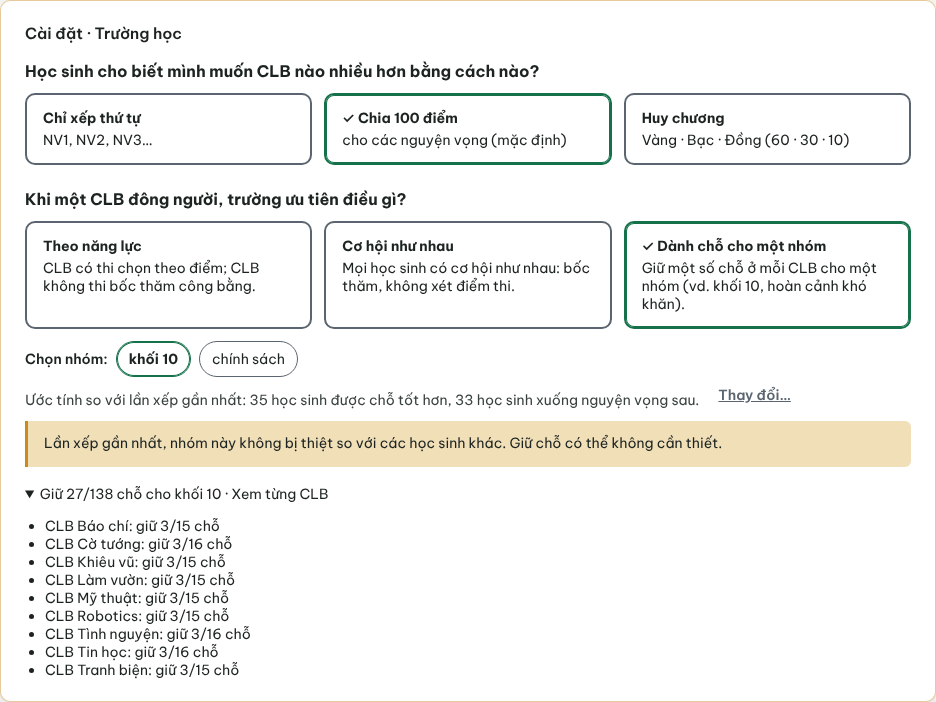
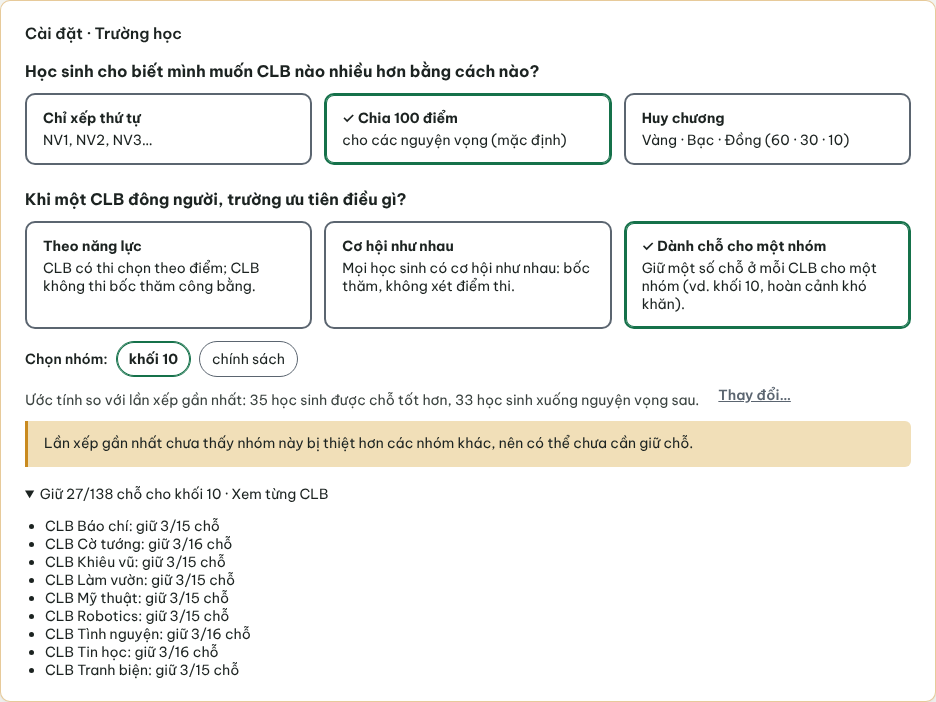
MT1-L4 fix1b: câu cảnh báo không có khoảng cách theo lời lead
Claude-Session: https://claude.ai/code/session_01TGThn7SbFerFkJFwKrtDKm

Changed region(s): [[0.1859, 0.5983, 0.7746, 0.6581]]

diff --git a/i18n_loi.js b/i18n_loi.js
@@ -1555,8 +1555,8 @@ window.I18N_ERROR_MESSAGES = {
     "en": "{n} clubs keep only 1-2 seats. That few seats hardly changes the result."
   },
   "mt_khong_co_khoang_cach": {
-    "vi": "Lần xếp gần nhất, nhóm này không bị thiệt so với các {person_l} khác. Giữ chỗ có thể không cần thiết.",
-    "en": "In the latest allocation this group was not at a disadvantage compared with other {person_pl}. Keeping seats may not be needed."
+    "vi": "Lần xếp gần nhất chưa thấy nhóm này bị thiệt hơn các nhóm khác, nên có thể chưa cần giữ chỗ.",
+    "en": "The latest allocation shows no disadvantage for this group, so keeping seats may not be needed."
   },
   "mt_uoc_tinh_fa": {
     "vi": "Chưa ước tính được khi đang dùng chế độ huy chương.",

diff --git a/i18n_errors.py b/i18n_errors.py
@@ -1659,8 +1659,8 @@ MESSAGES = {
         "en": "{n} clubs keep only 1-2 seats. That few seats hardly changes the result.",
     },
     "mt_khong_co_khoang_cach": {
-        "vi": "Lần xếp gần nhất, nhóm này không bị thiệt so với các {person_l} khác. Giữ chỗ có thể không cần thiết.",
-        "en": "In the latest allocation this group was not at a disadvantage compared with other {person_pl}. Keeping seats may not be needed.",
+        "vi": "Lần xếp gần nhất chưa thấy nhóm này bị thiệt hơn các nhóm khác, nên có thể chưa cần giữ chỗ.",
+        "en": "The latest allocation shows no disadvantage for this group, so keeping seats may not be needed.",
     },
     "mt_uoc_tinh_fa": {
         "vi": "Chưa ước tính được khi đang dùng chế độ huy chương.",

diff --git a/tests/test_giao_dien_mt1.py b/tests/test_giao_dien_mt1.py
@@ -305,7 +305,7 @@ def test_danh_cho_hien_giu_cho_trong_details_gap_san(mo_trang):  # noqa: F811
     assert len(dong) == 9 and all(re.search(r"giữ \d+/\d+", d) for d in dong)
     canh = page.locator("#ux1aMtCanhBao .canh-bao-vang").all_inner_texts()
     assert canh and all("chênh lệch ngược" not in c for c in canh)          # câu cũ khó hiểu đã thay
-    assert any("không bị thiệt" in c and "Giữ chỗ có thể không cần thiết." in c for c in canh), canh
+    assert any("chưa thấy nhóm này bị thiệt hơn các nhóm khác, nên có thể chưa cần giữ chỗ." in c for c in canh), canh
     assert not loi, loi
 
 

diff --git a/CHANGELOG.md b/CHANGELOG.md
@@ -4,7 +4,7 @@
 
 - `js/19_muc_tieu.js`: ước tính 0/0 nay nói kết quả ("Không học sinh nào đổi chỗ so với lần xếp gần nhất."; khoá `mt1_khong_doi` thay `mt1_da_theo`, vì lần xếp trước có thể dùng luật khác); lần chọn thẻ mới đóng thông báo "Đã chuyển sang…" cũ, Hoàn tác luôn là của lần mới nhất.
 - `js/075_workspace.js` (bước 3): chọn "Cơ hội như nhau" khi đang "Chia 100 điểm" hiện cùng dòng "Điểm chia không được dùng với mục tiêu này." (`#wzMtGhiChu`).
-- `i18n_errors.py` (`mt_khong_co_khoang_cach`): câu rõ hơn, "Lần xếp gần nhất, nhóm này không bị thiệt so với các học sinh khác. Giữ chỗ có thể không cần thiết."
+- `i18n_errors.py` (`mt_khong_co_khoang_cach`): câu rõ hơn, "Lần xếp gần nhất chưa thấy nhóm này bị thiệt hơn các nhóm khác, nên có thể chưa cần giữ chỗ." (câu do lead chốt)
 - "Xem từng CLB" vốn đã thu gọn sẵn (ảnh cũ do script chụp mở ra); đã có test canh. Test: `tests/test_giao_dien_mt1.py` 24 ca (+3, sửa 2); ảnh làm mới ở `docs/phien/anh_mt1/`.
 
 ## 2026-11-20 — MT1-L4: giao diện ba thẻ mục tiêu
